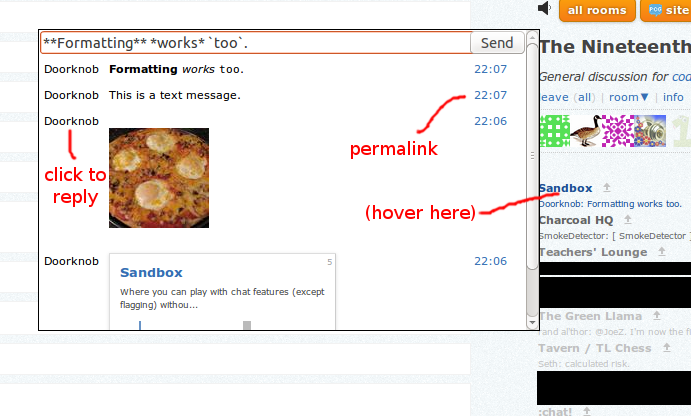
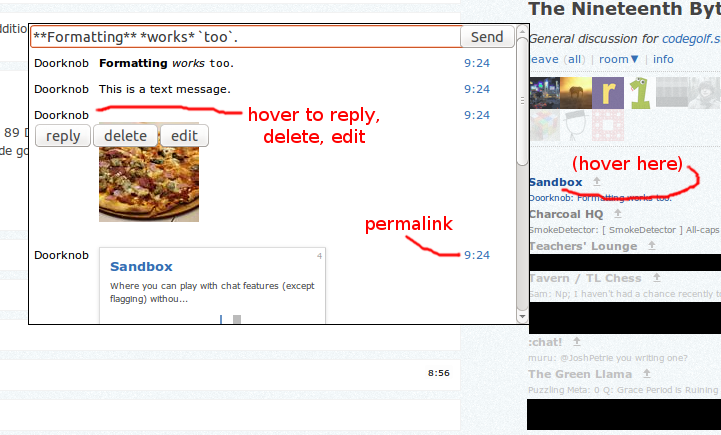
add reply/delete/edit menu, update screenshot and version number

Changed region(s): [[0.0, 0.0, 1.0, 1.0], [0.5774, 0.8438, 0.6382, 0.875], [0.1823, 0.7812, 0.2127, 0.8125]]

diff --git a/stackexchange-chatception.user.js b/stackexchange-chatception.user.js
@@ -1,7 +1,7 @@
 // ==UserScript==
 // @name Chatception
 // @namespace http://keyboardfire.com/
-// @version 0.1
+// @version 0.2
 // @description A tiny widget that allows you to quickly chat in different Stack Exchange chatrooms from a single page.
 // @grant none
 // @copyright MIT
@@ -10,7 +10,7 @@
 // @match *://chat.meta.stackexchange.com/*
 // ==/UserScript==
 
-window.onload = function() {
+window.addEventListener('load', function() {
 
 var MSG_LIST_WIDTH = 500,
     MSG_LIST_HEIGHT = 300,
@@ -50,11 +50,11 @@ var roomsList = document.getElementById('my-rooms');
     var sendInput = document.createElement('input');
     sendInput.className = 'sendInput';
     sendInput.style.width = '100%';
-    sendInput.onkeyup = function(e) {
+    sendInput.addEventListener('keyup', function(e) {
         if (e.keyCode === 13) {
             sendMsg();
         }
-    };
+    });
     sendInputTd.style.width = '100%';
     sendInputTd.colSpan = 2;
     sendInputTd.appendChild(sendInput);
@@ -63,7 +63,7 @@ var roomsList = document.getElementById('my-rooms');
     var sendButtonTd = document.createElement('td');
     var sendButton = document.createElement('button');
     sendButton.textContent = 'Send';
-    sendButton.onclick = sendMsg;
+    sendButton.addEventListener('click', sendMsg);
     sendButtonTd.appendChild(sendButton);
     sendMsgWidget.appendChild(sendButtonTd);
     msgList.appendChild(sendMsgWidget);
@@ -102,14 +102,44 @@ function handleEvents(events) {
             var msgUser = document.createElement('td');
             msgUser.textContent = msg['user_name'];
             msgUser.style.padding = '5px';
-            msgUser.style.cursor = 'pointer';
-            msgUser.onclick = function() {
+            msgUser.style.maxWidth = Math.floor(MSG_LIST_WIDTH * 0.15) + 'px';
+            msgUser.style.overflow = 'hidden';
+            var msgActions = document.createElement('div');
+            var actionReply = document.createElement('button');
+            actionReply.textContent = 'reply';
+            actionReply.addEventListener('click', function() {
                 var sendInput = msgList.getElementsByClassName('sendInput')[0];
                 sendInput.value = ':' + msg['message_id'] + ' ' + sendInput.value;
                 sendInput.focus();
-            };
-            msgUser.style.maxWidth = Math.floor(MSG_LIST_WIDTH * 0.15) + 'px';
-            msgUser.style.overflow = 'hidden';
+            });
+            msgActions.appendChild(actionReply);
+            var actionDelete = document.createElement('button');
+            actionDelete.textContent = 'delete';
+            actionDelete.addEventListener('click', function() {
+                $.post('http://' + location.host + '/messages/' + msg['message_id'] + '/delete', {
+                    fkey: fkey().fkey
+                });
+            });
+            msgActions.appendChild(actionDelete);
+            var actionEdit = document.createElement('button');
+            actionEdit.textContent = 'edit';
+            actionEdit.addEventListener('click', function() {
+                $.post('http://' + location.host + '/messages/' + msg['message_id'], {
+                    fkey: fkey().fkey,
+                    text: prompt('Edit to what?', msg['content'])
+                });
+            });
+            msgActions.appendChild(actionEdit);
+            msgActions.style.display = 'none';
+            msgActions.style.position = 'absolute';
+            msgActions.style.zIndex = '1000';
+            msgUser.addEventListener('mouseenter', function() {
+                msgActions.style.display = 'block';
+            });
+            msgUser.addEventListener('mouseleave', function() {
+                msgActions.style.display = 'none';
+            });
+            msgUser.appendChild(msgActions);
             msgRow.appendChild(msgUser);
 
             var msgContent = document.createElement('td');
@@ -159,4 +189,4 @@ function handleEvents(events) {
 function getSock() { return new WebSocket(JSON.parse($.ajax({type: 'POST', url: 'http://' + location.host + '/ws-auth', data: {roomid: CHAT.CURRENT_ROOM_ID, fkey: fkey().fkey}, async: false}).responseText)['url'] + '?l=' + JSON.parse($.ajax({type: 'POST', url: 'http://' + location.host + '/chats/' + CHAT.CURRENT_ROOM_ID + '/events', data: {fkey: fkey().fkey}, async: false}).responseText)['time']); }
 function getEvents(roomid) { return JSON.parse($.ajax({type: 'POST', url: 'http://' + location.host + '/chats/' + roomid + '/events', data: {fkey: fkey().fkey, mode: 'Messages', msgCount: 10, since: 0}, async: false}).responseText)['events']; }
 
-}
+});
